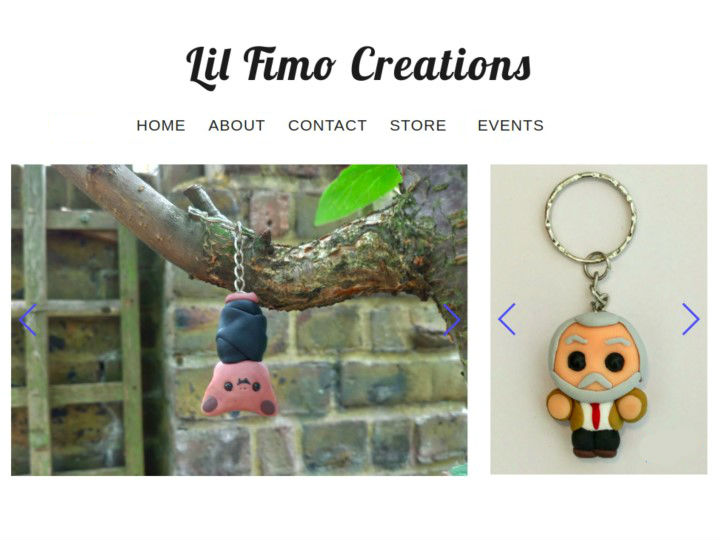
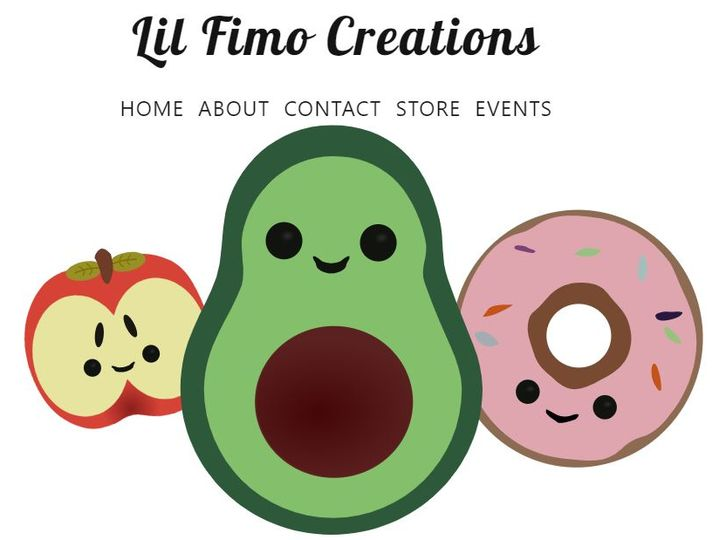
style changes

diff --git a/src/styles/App.scss b/src/styles/App.scss
@@ -1,4 +1,4 @@
-@import url("https://fonts.googleapis.com/css?family=Artifika|Crimson+Text|Noto+Serif");
+@import url("https://fonts.googleapis.com/css?family=Caveat|Cantarell");
 
 @import "keyframes.scss";
 
@@ -8,6 +8,12 @@ $navBlue: #334d77;
 
 * {
   box-sizing: border-box;
+}
+
+body {
+  font-family: "Cantarell", serif;
+  background-color: #fff;
+  color: #34495e;
 }
 
 body::-webkit-scrollbar-track {
@@ -29,38 +35,19 @@ a:visited {
   color: initial;
 }
 
-body {
-  font-family: "Crimson Text", serif;
-  background-color: #fff;
-  color: #34495e;
-}
 
-h1,
+h1 {
+  font-family: "Caveat", serif;
+}
 h2,
 h3 {
-  font-family: "Noto Serif", serif;
+
   font-weight: 100;
 }
 
 p,
 li {
   font-size: 1.4em;
-}
-
-.header {
-  padding: 5px;
-  margin: 0;
-  width: 100%;
-  background-color: #cccccc;
-}
-
-.header h1 {
-  text-align: center;
-  margin: 15px 0px;
-}
-
-.modal-title {
-  display: inline-block;
 }
 
 #scrollable-content {
@@ -91,58 +78,54 @@ li {
 
 /**** intro ****/
 
-#gallery {
+#intro {
   width: 100%;
   top: 0;
   position: fixed;
   z-index: -1;
   transition: 1s ease-out;
+
+  .intro-img {
+    top: 0;
+    position: fixed;
+    transition:1000ms ease-out;
+    z-index: -1;
+  }
 }
 
-.swiper-slide img {
-  width: 100%;
-}
 
-.intro-img {
-  top: 0;
-  position: fixed;
-  transition:1000ms ease-out;
-  z-index: -1;
-}
 
 /**** about ****/
 
-#about {
-  opacity: 0;
-  transition:1200ms;
-  padding-top: 20px;
-  text-align: justify;
+#about-section {
+  .main-header {
+    width: 100%;
+    text-align: center;
+
+    .navbar-brand {
+      padding: 0 13px;
+
+      .brand-img {
+        height: 100px;
+        animation:brand-roll 2s 3s;
+      }
+    }
+  
+    h1 {
+      padding: 0 0 40px 0;
+      text-align: center;
+      font-size: 4em !important;
+      display: inline;
+    }
+  }
+  
+  .main-header:hover .brand-img {
+    animation:brand-roll 2s;
+  }
+
+
 }
 
-.brand-img {
-  height: 100px;
-  animation:brand-roll 2s 3s;
-}
-
-.navbar-brand {
-  padding-top: 0;
-  font-size: 1.3em;
-  padding: 0 13px;
-  color: #f2bc59 !important;
-  text-transform: uppercase;
-  letter-spacing: 0.05em;
-  text-decoration: none;
-  font-family: "Artifika", serif;
-  cursor: pointer;
-}
-
-.main-header:hover .brand-img {
-  animation:brand-roll 2s;
-}
-
-h1 {
-  display: inline;
-}
 
 .about-row {
   border-top-left-radius: 5px;
@@ -193,20 +176,12 @@ h1 {
   }
 }
 
-.main-header {
-  width: 100%;
-  text-align: center;
-}
 
-.main-header h1 {
-  padding: 0 0 40px 0;
-  margin-top: 0;
-  text-align: center;
-  font-size: 3em !important;
-}
+
+
 
 .show-about {
-  margin-top: 0 !important;
+  margin-top: 15px !important;
   opacity: 1 !important;
 }
 
